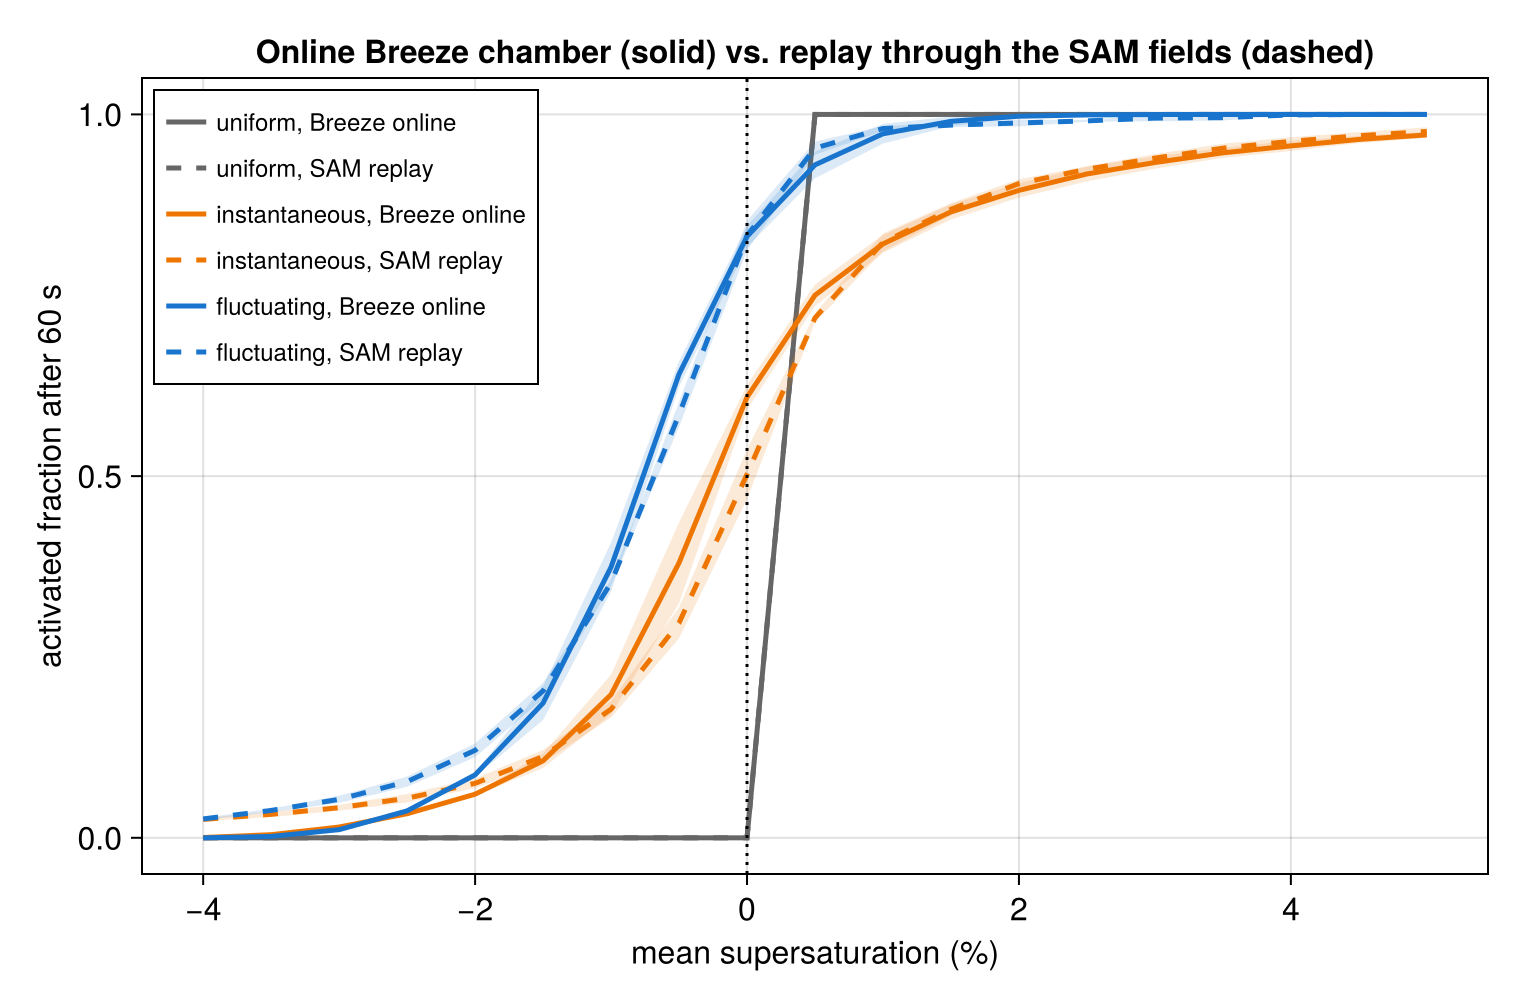
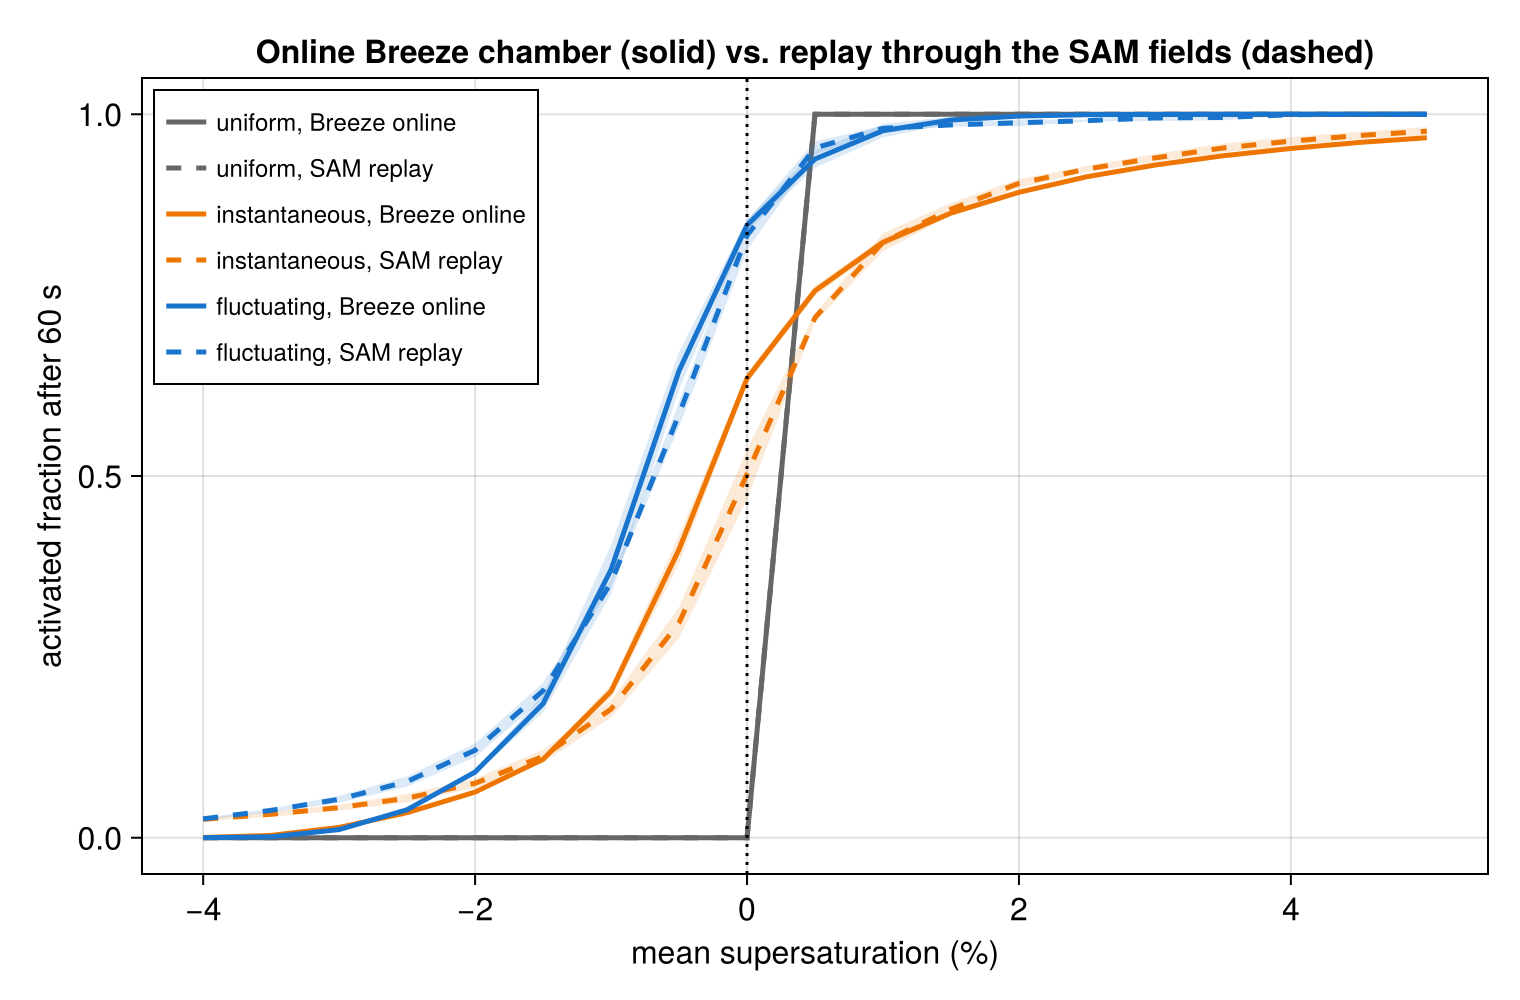
Re-calibrate to a 1.4 mm roughness on the updated Breeze; README with the cross-code check
The Breeze update (#875's stability formulation) left the chamber slightly quiet at 1.25 mm
(interior spread 1.10 % against the reference 1.23 %); 1.4 mm restores the Lagrangian spread
(1.94-2.00 % against 1.85-1.96 %), the correlation time, and the activation curve (0.34-0.41
at a -1 % target against 0.355). The README now leads with the comparison against Anderson's
own droplet code.

Claude-Session: https://claude.ai/code/session_01CQKnHK63dDbpppr1ixUm6Y

diff --git a/README.md b/README.md
@@ -19,52 +19,71 @@ reference audit, and the analysis.
 
 ## Status
 
-Field parity with the reference LES reached for the one-way experiment, with a physical wall
-model and the reference's own condensation sink; no reproduction claim against the paper's
-numbers yet.
+Field parity with the reference LES, with a physical wall model and the reference's own
+condensation sink, and the droplet physics now checked directly against Anderson's code. No
+reproduction claim against the paper's published figures yet.
 
 The chamber (six-wall bulk fluxes, WENO(5) implicit LES with bounds-preserving WENO on the
 moisture species, adaptive time step at CFL 0.7) convects, 10⁴ κ-Köhler droplets are advected
 and grown online, and every droplet carries Anderson's counterfactual replicas for 19 target
-mean supersaturations. The same droplet physics and the same replica construction are also
-replayed offline through Anderson's SAM fields (`analysis/reference_trajectories.jl`), which
-is the reference the online chamber is judged against.
+mean supersaturations. The same droplet physics and replica construction are also replayed
+offline through Anderson's SAM fields (`analysis/reference_trajectories.jl`), which is the
+reference the online chamber is judged against.
 
-Two quantities were calibrated from the reference fields themselves. The condensation rate in
-the SAM snapshots correlates at 0.96 with the local supersaturation excess and gives a phase
-relaxation time of 72 s (`analysis/reference_condensation.jl`), which the chamber's warm-only
-one-moment host reproduces with `relaxation_time = 28` (Breeze's rate carries the latent-heat
-factor Γ ≈ 2.5). The wall model is a log law with the Monin–Obukhov stability correction on the
-floor and ceiling and neutral side walls (`log_law_coefficient`), and a 1.25 mm roughness
-length gives, at 64 × 64 × 32 with a 15 min spin-up and three 60 s windows:
+### The droplet physics is Anderson's
+
+`analysis/anderson_growth.py` runs his own code (`lfierce2/LagrangianDroplets`) on 200
+supersaturation traces taken from the replay, and `analysis/growth_comparison.jl` steps the
+same traces here. The activated fraction after 60 s agrees to one droplet in 200:
+
+| target mean 𝒮 | Anderson's code | Breeze |
+|---|---:|---:|
+| 0 % | 0.840 | 0.840 |
+| −1 % | 0.375 | 0.380 |
+| −2 % | 0.135 | 0.135 |
+
+The critical point agrees to 0.04 % (1.7219 vs 1.7212 μm). Individual diameters agree to
+0.03–0.64 % in the median, with ours ≈ 4 % smaller at 60 s for the fastest growers, entirely
+because pyrcel uses a temperature-independent latent heat of 2.25 × 10⁶ J kg⁻¹ where Breeze
+uses the physical 2.47 × 10⁶ J kg⁻¹ at chamber temperature. Activation is a threshold
+crossing, so the curve is insensitive to it.
+
+![Anderson's code against Breeze on identical traces](figures/growth_comparison.png)
+
+### The chamber against the replay
+
+Two quantities were calibrated from the reference fields themselves: the condensation rate in
+the SAM snapshots gives a phase relaxation time of 72 s (`analysis/reference_condensation.jl`),
+which the warm-only one-moment host reproduces with `relaxation_time = 28` (Breeze's rate
+carries the latent-heat factor Γ ≈ 2.5); and the wall model is a log law with the
+Monin–Obukhov stability correction on the floor and ceiling and neutral side walls
+(`log_law_coefficient`), whose 1.4 mm roughness gives, at 64 × 64 × 32 with a 15 min spin-up
+and three 60 s windows:
 
 | quantity | Breeze chamber | reference SAM fields |
 |---|---:|---:|
-| interior spread of 𝒮 | 1.24 % | 1.23 % |
-| spread of 𝒮 over the box | 1.96 % | 1.94 % |
-| Lagrangian spread of 𝒮 along droplets | 1.89–1.93 % | 1.85–1.96 % |
-| correlation time τₛ | 3.0–3.1 s | 2.9–3.1 s |
-| σ(T), σ(qᵛ) | 0.99 K, 0.79 g kg⁻¹ | 0.85 K, 0.72 g kg⁻¹ |
-| mean 𝒮, interior | +0.19 % | +0.71 % |
-| mean T | 288.6 K | 287.6 K |
-| activated fraction after 60 s at a −1 % target (fluctuating) | 0.36–0.41 | 0.355 |
-| at 0 % (fluctuating / instantaneous) | 0.82–0.84 / 0.59–0.62 | 0.85 / 0.51 |
-| at −2 % (fluctuating) | 0.085–0.09 | 0.11 |
+| Lagrangian spread of 𝒮 along droplets | 1.94–2.00 % | 1.85–1.96 % |
+| spread of 𝒮 over the box | 1.93 % | 1.94 % |
+| interior spread of 𝒮 | 1.17 % | 1.23 % |
+| correlation time τₛ | 2.8–3.1 s | 2.9–3.1 s |
+| σ(T), σ(qᵛ) | 1.03 K, 0.83 g kg⁻¹ | 0.85 K, 0.72 g kg⁻¹ |
+| activated fraction after 60 s at −1 % (fluctuating) | 0.34–0.41 | 0.355 |
+| at 0 % (fluctuating / instantaneous) | 0.84–0.85 / 0.63–0.64 | 0.85 / 0.51 |
+| at −2 % (fluctuating) | 0.087–0.093 | 0.11 |
+| mean 𝒮, interior | −0.03 % | +0.71 % |
+| mean T | 288.7 K | 287.6 K |
 
 ![Default chamber against the reference replay](figures/default_chamber_vs_reference_activation.png)
 
-The roughness sweep brackets it (1 mm undershoots, 1.5 mm overshoots; `figures/wall_model_activation.png`).
-The residuals are a 1 K warm bias of the mean temperature and a mean supersaturation of
-+0.2 % against +0.7 %, both a flux-partition question between floor, ceiling, and side walls.
-A constant coefficient of 2 × 10⁻² reproduces the fluctuations equally well but leaves the
-mean near zero, and the neutral log-law value 6 × 10⁻³ gives fluctuations three times too
-weak. The 128 × 128 × 64 chamber reproduces the 64 × 64 × 32 statistics at the same settings
-(`figures/ladder_activation.png`). WENO(9) gives an interior spread about 12 % larger than
-WENO(5) at the same roughness.
+The residuals are a 1 K warm bias and a mean supersaturation near zero where the reference is
+supersaturated, both a flux-partition question between floor, ceiling, and side walls, and the
+far tail below −2 %. The 128 × 128 × 64 chamber reproduces the 64 × 64 × 32 statistics
+(`figures/ladder_activation.png`).
 
-Open items: the warm bias and the mean; the correlation-time definition (Anderson reports
-7.5 s where the integral estimator gives 3 s in his own fields); second-order particle
-advection; checkpointing; the Breeze example.
+Open items: the warm bias and the mean; the far tail; the correlation-time definition
+(Anderson reports 7.5 s where the integral estimator gives 3 s in his own fields); the
+trajectory integration and supersaturation definition against his code, the two parts of the
+replay still untested; second-order particle advection; checkpointing.
 
 ## Installing
 
